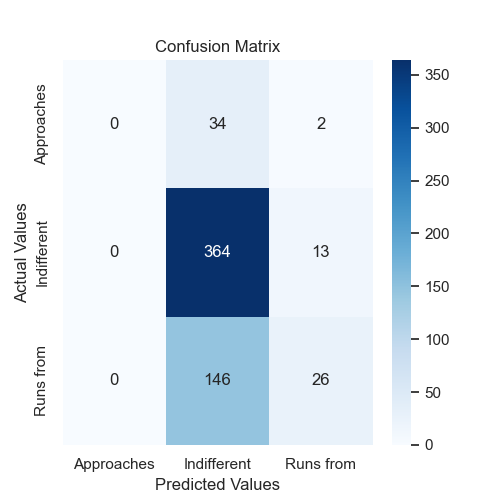
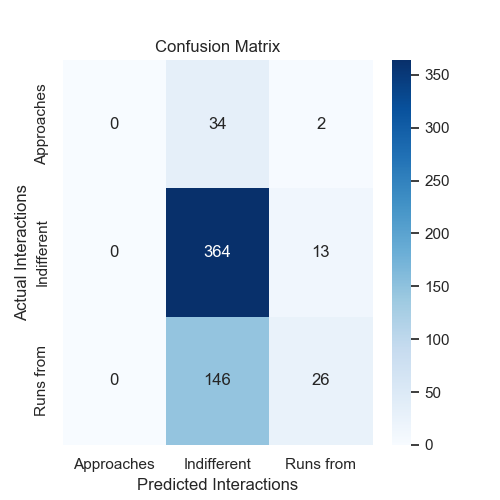
edited processing, updated question 4 plot

Changed region(s): [[0.27, 0.96, 0.6, 0.99], [0.03, 0.36, 0.06, 0.66]]

diff --git a/mainproject.py b/mainproject.py
@@ -204,10 +204,10 @@ def fit_behavior(df: pd.DataFrame) -> list[Any]:
 
 
 def plot_feature_importance(model: RandomForestClassifier,
-                            features: list[Any]) -> None:
+                            features: pd.DataFrame) -> None:
     """
-    Takes in a RandomForestClassifier and a list that represents the
-    features of the model. Creates a bar chart of the feature importances
+    Takes in a RandomForestClassifier and a pandas DataFrame that represents
+    the features of the model. Creates a bar chart of the feature importances
     of the model.
     """
     importances = model.feature_importances_
@@ -224,17 +224,18 @@ def plot_feature_importance(model: RandomForestClassifier,
 
 # research question 4
 def verify_results(model: RandomForestClassifier,
-                   features_test: list[Any], labels_test: list[Any]) -> None:
+                   features_test: pd.DataFrame,
+                   labels_test: pd.DataFrame) -> None:
     """
-    Takes in a RandomForestClassifier and lists that represents the features
-    and labels used to test the model. Calculates the precision, recall, and
-    F1 score of the model and plots a confusion matrix comparing the actual
-    and predicted squirrel behaviors.
+    Takes in a RandomForestClassifier and pandas DataFrames that represent the
+    features and labels used to test the model. Calculates the precision,
+    recall, and F-score of the model and plots a confusion matrix comparing
+    the actual and predicted squirrel behaviors.
     """
     y_true = labels_test
     y_pred = model.predict(features_test)
 
-    # calc precision, recall, f1 score
+    # calc precision, recall, f score
     print('Precision:', precision_score(y_true=y_true, y_pred=y_pred,
                                         labels=['Approaches', 'Indifferent',
                                                 'Runs from'],
@@ -259,8 +260,8 @@ def verify_results(model: RandomForestClassifier,
                          columns=['Approaches', 'Indifferent', 'Runs from'])
     plt.figure(figsize=(5, 5))
     sns.heatmap(cm_df, annot=True, cmap='Blues', fmt='d')
-    plt.xlabel('Predicted Values')
-    plt.ylabel('Actual Values')
+    plt.xlabel('Predicted Interactions')
+    plt.ylabel('Actual Interactions')
     plt.title('Confusion Matrix')
     plt.savefig('confusion_matrix.png')
 

diff --git a/processing.py b/processing.py
@@ -10,8 +10,9 @@ import numpy as np
 
 def clean_data() -> pd.DataFrame:
     """
-    Reads in data from the csv file, returns a DataFrame with columns that
-    we are planning to use.
+    Reads in data from the csv file, converts columns 'Approaches',
+    'Indifferent', and 'Runs from' to int, and returns a DataFrame with columns
+    that we are planning to use.
     """
     squirrels = pd.read_csv(
         '2018_Central_Park_Squirrel_Census_-_Squirrel_Data.csv')
@@ -20,6 +21,8 @@ def clean_data() -> pd.DataFrame:
                           'Running', 'Chasing', 'Climbing', 'Eating',
                           'Foraging', 'Approaches', 'Indifferent',
                           'Runs from']]
+    filtered = filtered.astype({'Approaches': 'int', 'Indifferent': 'int',
+                                'Runs from': 'int'})
     return filtered
 
 
@@ -28,9 +31,9 @@ def filter_behavior(df: pd.DataFrame) -> pd.DataFrame:
     Takes in a pandas DataFrame and returns a DataFrame that only includes
     squirrels who exhibited one behavior.
     """
-    app = df['Approaches'] == True
-    ind = df['Indifferent'] == True
-    run = df['Runs from'] == True
+    app = df['Approaches'] == 1
+    ind = df['Indifferent'] == 1
+    run = df['Runs from'] == 1
     f = df[(app & ~ind & ~run) | (ind & ~app & ~run) | (run & ~app & ~ind)]
     return f
 
@@ -41,9 +44,9 @@ def add_behavior_column(df: pd.DataFrame) -> pd.DataFrame:
     the type of behavior exhibited by the squirrel, and returns the new
     DataFrame.
     """
-    conditions = [(df['Approaches'] == True),
-                  (df['Indifferent'] == True),
-                  (df['Runs from'] == True)
+    conditions = [(df['Approaches'] == 1),
+                  (df['Indifferent'] == 1),
+                  (df['Runs from'] == 1)
                   ]
     values = ['Approaches', 'Indifferent', 'Runs from']
     df = df.drop(columns=['Approaches', 'Indifferent', 'Runs from'])
